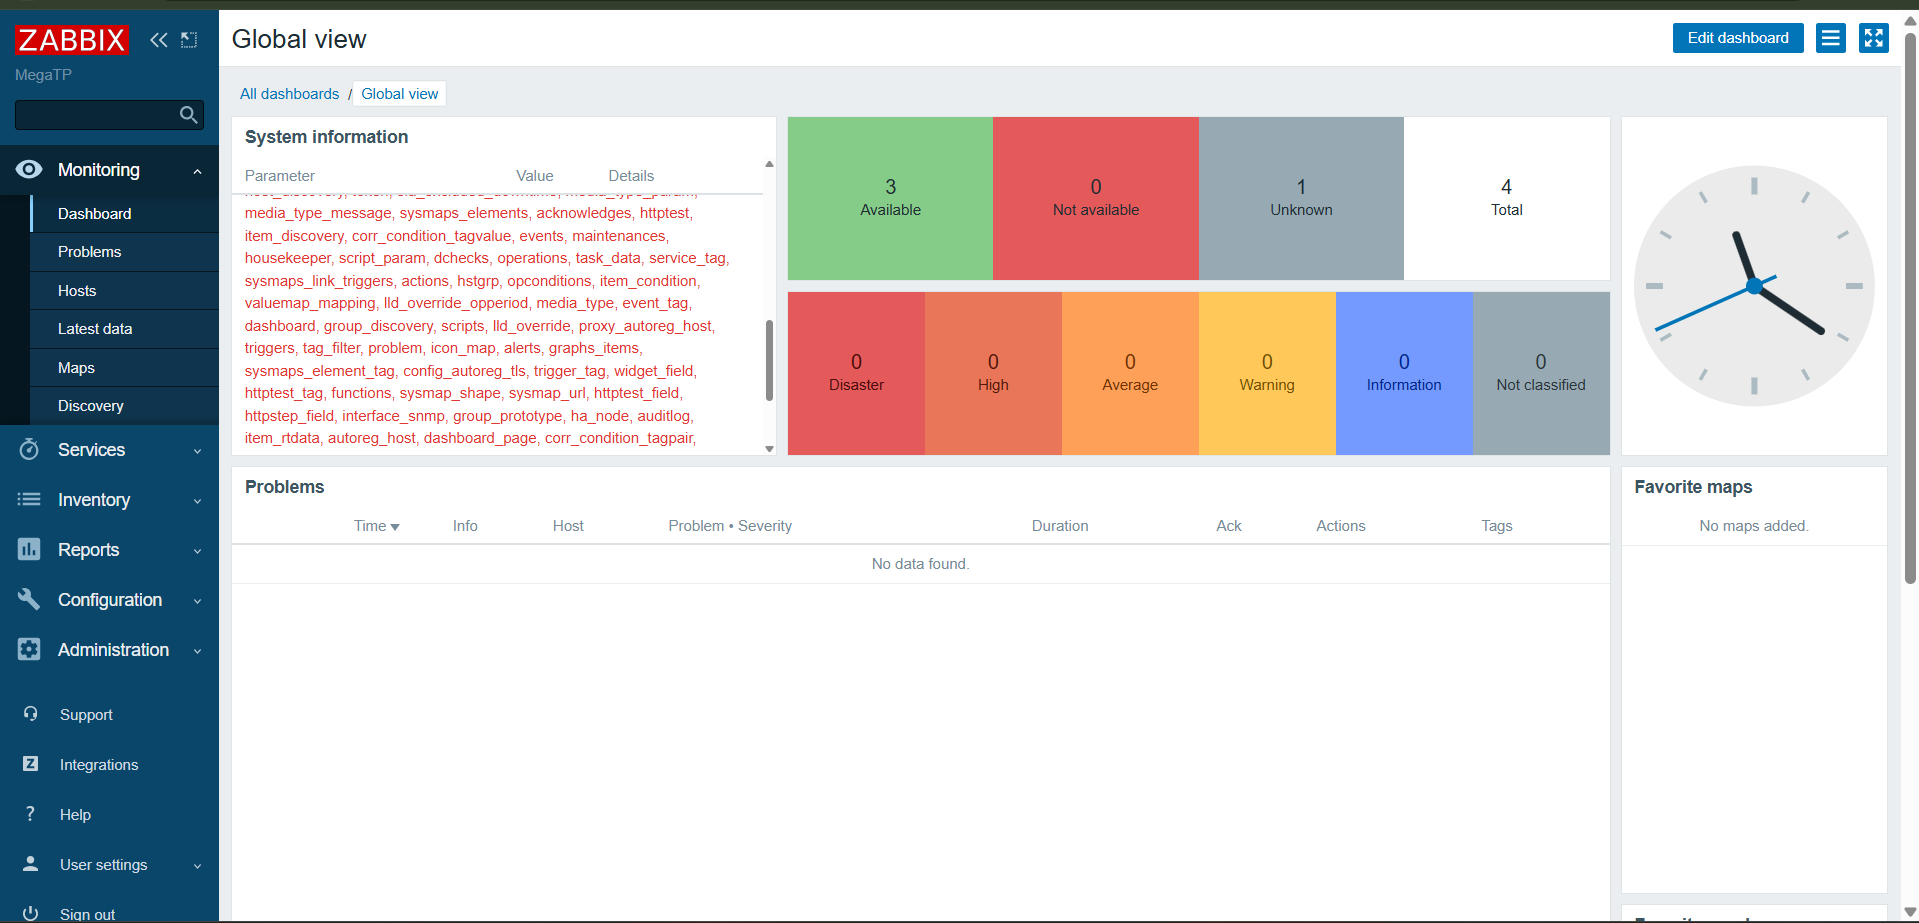
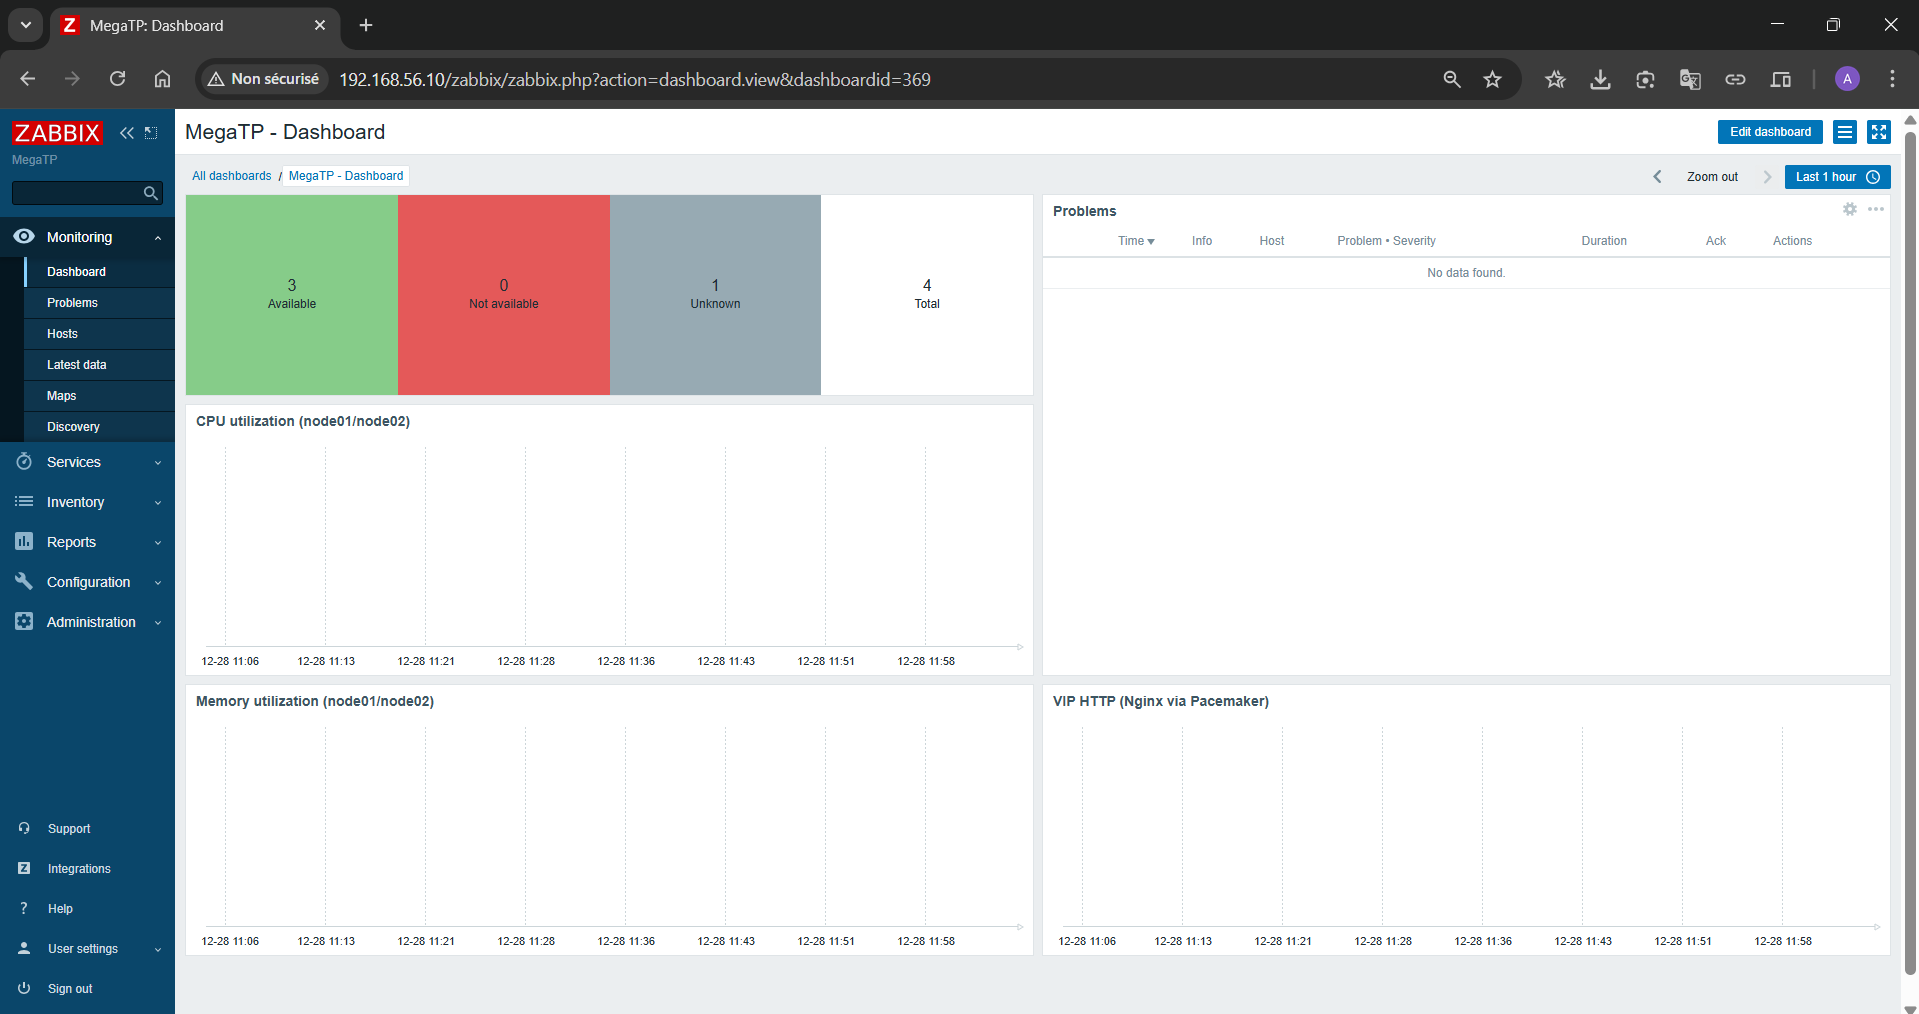
update: ansible playbooks and scripts

diff --git a/docs/proofs/README.md b/docs/proofs/README.md
@@ -1,14 +1,32 @@
-# Preuves (captures)
+# Preuves (`docs/proofs`)
 
-Ce dossier contient les preuves demandées pour le rendu :
-- `pcs_status.png` : sortie `pcs status --full` (cluster OK)
-- `vip_page.png` : page servie via la VIP `192.168.56.100`
-- `zabbix_dashboard.png` : capture du dashboard Zabbix (“MegaTP - Dashboard”)
+Objectif : fournir au correcteur des preuves simples, lisibles et reproductibles.
 
-Génération automatique (depuis l’hôte Windows, dans `mega-tp_final_en_cour`) :
+## Fichiers canoniques (versionnes)
+
+- `docs/proofs/pcs_status.png` : sortie `pcs status --full` (cluster OK)
+- `docs/proofs/vip_page.png` : page servie via la VIP `http://192.168.56.100/`
+- `docs/proofs/zabbix_http.png` : check HTTP du front Zabbix (preuve de disponibilite)
+- `docs/proofs/zabbix_dashboard.png` : capture du dashboard Zabbix **MegaTP - Dashboard** (capture manuelle)
+
+## Dossiers d'archive (non versionnes)
+
+- `docs/proofs/archive/<runid>/` : fichiers horodates generes automatiquement par `capture_proofs.ps1` (utile pour debug).
+- `docs/proofs/archive/_local/<runid>/` : rangement local genere par `finalize_proofs.ps1 -Archive` (doublons, captures diverses).
+
+## Generation
+
+Depuis l'hote Windows (PowerShell) a la racine du projet :
+
 - `.\scripts\proofs\capture_proofs.ps1`
-- `.\scripts\proofs\capture_proofs.ps1 -OpenZabbix` (ouvre aussi les URLs + le dossier pour faire la capture du dashboard)
+- `.\scripts\proofs\capture_proofs.ps1 -OpenZabbix` (ouvre aussi les URLs + le dossier pour faire la capture dashboard)
 
-Les fichiers horodatés (`*_YYYYMMDD_HHMMSS.*`) sont conservés pour l’historique. Les fichiers `*.png` sans date sont les “dernières preuves” (celles à afficher dans `README.md`).
+Le script genere des fichiers horodates (utile pour debug) dans `docs/proofs/archive/<runid>/` puis met a jour les preuves canoniques ci-dessus.
 
+## Archivage local
 
+Pour eviter d'encombrer le repo avec des doublons (horodates restants dans `docs/proofs/` ou `docs/proofs/zabbix/`), archive-les en local :
+
+- `.\scripts\proofs\finalize_proofs.ps1 -Archive`
+
+Archive : `docs/proofs/archive/` (ignore par Git via `.gitignore`).
